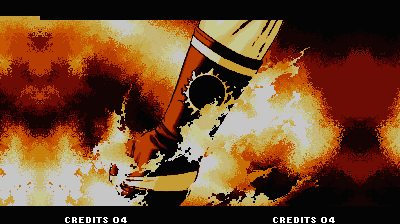
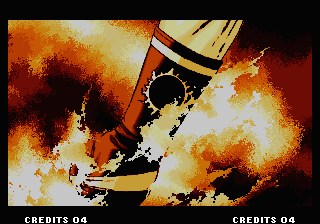
Margin art for the stone backgrounds; letterbox bars; 4:3 vs 16:9 screenshots
assets/stone.png (menus) and assets/stone-red.png (title) hold only new
margin pixels, painted for this project; the game's picture is not in
them. Mode select's left margin meets the picture where it is. The
letterbox layer is extended while it is a plain band. README shows each
screen as the original 4:3 picture and in widescreen; the roadmap gains
a launcher with video options.

diff --git a/src/game.c b/src/game.c
@@ -110,15 +110,18 @@ static void patch(uint8_t *prom, size_t size, int screen_w) {
  * an indexed PNG in the asset folder (KOF98_ASSETS, default assets/ in
  * the repo), painted in the background's palette, which the copies draw
  * through palette RAM so it fades with the screen. `art_x` is where the
- * background's X 0 falls in the image. Without the file, the margins are
- * mirrored. */
-static const struct { uint32_t tile; int period, colour; const char *art; int art_x; } k_backgrounds[] = {
-    {0x07417, 0, 0, "stone.png", 80},                      /* stone: how to play, ranking */
-    {0x07425, 0, 0, "stone.png", 96},                      /* the same 16 pixels on: mode select */
+ * background's X 0 falls in the image, and `art_xl` the same for the left
+ * margin: mode select shows the stone 16 pixels on from how to play, and
+ * the art holds no picture to fill those 16 pixels, so its left margin
+ * meets the picture where it is. Without the file, the margins are
+ * mirrored. `bands` extends a layer only while it is a plain band. */
+static const struct { uint32_t tile; int period, colour; const char *art; int art_x, art_xl; int bands; } k_backgrounds[] = {
+    {0x07417, 0, 0, "stone.png", 80, 80},                  /* stone: how to play, ranking */
+    {0x07425, 0, 0, "stone.png", 96, 80},                  /* the same 16 pixels on: mode select */
     {0x07416, 0, 0, NULL, 0},                              /* continue */
     {0x0787E, 0, 1, NULL, 0},                              /* character select: blue to red */
     {0x07824, 10, 1, NULL, 0},                             /* and its "K.O.F." lettering */
-    {0x097B6, 0, 0, NULL, 0},                              /* title logo */
+    {0x097B6, 0, 0, "stone-red.png", 80, 80},              /* red stone behind the title logo */
     {0x094FC, 0, 0, NULL, 0}, {0x09B72, 0, 0, NULL, 0},    /* intro */
     {0x0D23F, 0, 0, NULL, 0}, {0x0D526, 0, 0, NULL, 0},
     {0x08DD0, 0, 0, NULL, 0}, {0x08EE8, 0, 0, NULL, 0},    /* team story */
@@ -126,14 +129,22 @@ static const struct { uint32_t tile; int period, colour; const char *art; int ar
     {0x0E237, 0, 0, NULL, 0}, {0x0E273, 0, 0, NULL, 0}, {0x0E29B, 0, 0, NULL, 0},
     {0x0E2C3, 0, 0, NULL, 0}, {0x0E2D7, 0, 0, NULL, 0}, {0x0E2EB, 0, 0, NULL, 0},
     {0x07612, 0, 0, NULL, 0},                              /* the white flash of a K.O. */
+    {0x09128, 0, 0, NULL, 0, 1},                           /* letterbox bars: title, intro */
 };
 #define N_BACKGROUNDS (sizeof(k_backgrounds) / sizeof(k_backgrounds[0]))
+
+static int same_columns(const uint16_t *vram, int first, int last, int rows) {
+    if (rows > 32) rows = 32;
+    for (int n = first + 1; n <= last; n++)
+        if (memcmp(vram + n * 64, vram + first * 64, (size_t)rows * 2 * sizeof(uint16_t))) return 0;
+    return 1;
+}
 
 #ifdef KOF98_ASSET_DIR
 /* Loaded art, and the 16-pixel columns cut from it (16 indices per line,
  * 512 lines), made once per background and X. */
 static struct { uint8_t *png; int w, h, tried; } s_art[N_BACKGROUNDS];
-static struct { int bg, x; uint8_t px[16 * 512]; } *s_cols;
+static struct { int bg, x, empty; uint8_t px[16 * 512]; } *s_cols;
 static int s_ncols;
 
 static const uint8_t *art_column(int bg, int x) {
@@ -172,16 +183,20 @@ static const uint8_t *art_column(int bg, int x) {
     }
     if (!s_art[bg].png) return NULL;
     for (int i = 0; i < s_ncols; i++)
-        if (s_cols[i].bg == bg && s_cols[i].x == x) return s_cols[i].px;
+        if (s_cols[i].bg == bg && s_cols[i].x == x) return s_cols[i].empty ? NULL : s_cols[i].px;
     s_cols = realloc(s_cols, sizeof(*s_cols) * (size_t)(s_ncols + 1));
     uint8_t *px = s_cols[s_ncols].px;
     s_cols[s_ncols].bg = bg; s_cols[s_ncols].x = x; s_ncols++;
     memset(px, 0, 16 * 512);
-    int x0 = k_backgrounds[bg].art_x + x;
+    int x0 = (x < 0 ? k_backgrounds[bg].art_xl : k_backgrounds[bg].art_x) + x;
+    int any = 0;
     for (int y = 0; y < s_art[bg].h && y < 512; y++)
         for (int i = 0; i < 16; i++)
-            if (x0 + i >= 0 && x0 + i < s_art[bg].w) px[y * 16 + i] = s_art[bg].png[y * s_art[bg].w + x0 + i];
-    return px;
+            if (x0 + i >= 0 && x0 + i < s_art[bg].w) any |= px[y * 16 + i] = s_art[bg].png[y * s_art[bg].w + x0 + i];
+    /* A column the art leaves empty (the picture itself, where a screen
+     * shows it shifted) falls back to the copies' other methods. */
+    s_cols[s_ncols - 1].empty = !any;
+    return any ? px : NULL;
 }
 #else
 static const uint8_t *art_column(int bg, int x) { (void)bg; (void)x; return NULL; }
@@ -231,6 +246,9 @@ static int extend(const uint16_t *vram, int screen_w, ng_extra_sprite_t *out, in
         for (size_t i = 0; i < N_BACKGROUNDS; i++)
             if (k_backgrounds[i].tile == t) bg = (int)i;
         if (bg < 0) continue;
+        /* A layer that is a plain band only when every column shows the
+         * same tiles (it also carries panels that slide in from the edge). */
+        if (k_backgrounds[bg].bands && !same_columns(vram, s + a, s + b, srows[s])) continue;
         int period = k_backgrounds[bg].period, colour = k_backgrounds[bg].colour;
         uint16_t pal = vram[(s + a) * 64 + 1] >> 8;
         for (int c = 1; 16 * (a - c) + 16 > -margin && n_out < max; c++) {

diff --git a/README.md b/README.md
@@ -13,14 +13,19 @@ This is the first step of a bigger plan: bring the whole KOF series, from '94 to
 
 ## Screenshots
 
-All real output from the recompiled build in widescreen (`--widescreen --headless --screenshot`). The stone behind the menus uses margin art from `assets/` ([below](#widescreen-art)).
+The same frames from the recompiled build, as the original 4:3 picture and in widescreen (`--headless --screenshot`, with and without `--widescreen`):
 
-| | |
+| Original (4:3) | Widescreen (16:9) |
 |---|---|
-| ![NEOGEO boot](docs/screenshots/bios.png) | ![Intro](docs/screenshots/intro.png) |
-| ![Title](docs/screenshots/title.png) | ![Mode select](docs/screenshots/mode.png) |
-| ![Character select](docs/screenshots/select.png) | ![Order select](docs/screenshots/order.png) |
-| ![Fight](docs/screenshots/fight.png) | ![Fight](docs/screenshots/fight-wide.png) |
+| ![NEOGEO boot](docs/screenshots/bios.png) | ![NEOGEO boot, widescreen](docs/screenshots/bios-wide.png) |
+| ![Intro](docs/screenshots/intro.png) | ![Intro, widescreen](docs/screenshots/intro-wide.png) |
+| ![Title](docs/screenshots/title.png) | ![Title, widescreen](docs/screenshots/title-wide.png) |
+| ![Mode select](docs/screenshots/mode.png) | ![Mode select, widescreen](docs/screenshots/mode-wide.png) |
+| ![Character select](docs/screenshots/select.png) | ![Character select, widescreen](docs/screenshots/select-wide.png) |
+| ![Order select](docs/screenshots/order.png) | ![Order select, widescreen](docs/screenshots/order-wide.png) |
+| ![Fight](docs/screenshots/fight.png) | ![Fight, widescreen](docs/screenshots/fight-wide.png) |
+
+The stone behind the title and the menus uses new margin art ([below](#widescreen-art)).
 
 ## Why
 
@@ -35,7 +40,7 @@ Alpha. **There is no sound yet.**
 - **Widescreen** (`--widescreen`, 400×224; up to 480 with `--width`):
   - fights draw the stage across the whole width, on all nine stages, with the camera kept inside the stage art;
   - menus and other backgrounds continue into the margins in the game's own graphics: mirrored textures, repeated patterns, gradients carried on in their edge colour;
-  - a background can take its margins from new art instead ([below](#widescreen-art)).
+  - the stone behind the menus and the title has new margin art ([below](#widescreen-art)).
 - Only player 1 has keys, and there is no gamepad support yet.
 
 ## What was done
@@ -150,9 +155,7 @@ See *Step by step* above. `KOF98_ROM_DIR` is the only game-specific option. With
 
 ## Widescreen art
 
-Mirroring works for most backgrounds, but it shows on the stone texture behind the menus. Those screens can take their margins from new art: put an indexed PNG at `assets/stone.png` (or point `KOF98_ASSETS` at another folder), 496×224, in the stone's 16-colour palette, with the original picture at X 80..399. The game draws it through its own palette, so it fades and dims with the screen. Without the file, the margins are mirrored. [docs/game-notes.md](docs/game-notes.md) has the details.
-
-The art is derived from the game's, so `assets/` is not committed, like `roms/`.
+Mirroring works for most backgrounds, but it shows on the stone textures behind the menus and the title. Those take their margins from new art, painted for this project, in `assets/`: indexed PNGs in each background's palette that hold only the margins. The game draws them through its own palette, so they fade and dim with the screen. To try your own, point `KOF98_ASSETS` at another folder. [docs/game-notes.md](docs/game-notes.md) has the formats.
 
 ## Documentation
 
@@ -162,7 +165,7 @@ The art is derived from the game's, so `assets/` is not committed, like `roms/`.
 
 ## Credits
 
-- **[Danilo P. da Silva](https://github.com/danilopaulinodasilva)**: the project, KOF98 and widescreen.
+- **[Danilo P. da Silva](https://github.com/danilopaulinodasilva)**: the project, KOF98, widescreen and its margin art.
 - **[sp00nznet](https://github.com/sp00nznet)**: [neogeorecomp](https://github.com/sp00nznet/neogeorecomp) and [metalslug](https://github.com/sp00nznet/metalslug), the toolkit and the template this builds on.
 - **[Claude Code](https://claude.com/claude-code)** (Anthropic): AI pair programmer for the reverse engineering, the toolkit changes and the widescreen work. Every change was tested by Danilo before it was pushed.
 - Third-party code in the toolkit: [Musashi](https://github.com/kstenerud/Musashi) (68000 interpreter and `--verify` oracle), [z80](https://github.com/superzazu/z80) (sound CPU), [stb_image](https://github.com/nothings/stb) (PNG decoding).

diff --git a/docs/game-notes.md b/docs/game-notes.md
@@ -42,7 +42,10 @@ Bringing it up as an AES found a toolkit bug: the AES has no board SFIX or SM1, 
 - All nine stages (stage index at `$10A7EA`) were checked with the camera against both ends. A fighter entering between rounds is visible a little earlier.
 - Other screens are drawn for 320 pixels. Their backgrounds are 20 sprite columns at X 0..304, and `ng_game_t.extend` fills the margins with copies of those columns: mirrored at the edge for textures and gradients (the stone menus, the character select, the title logo, intro and story backdrops, the continue screen, the K.O. flash), or repeated every 10 columns for the "K.O.F." lettering behind the character select. When the art's outer column is empty (left for the overscan), the next column in is the edge.
 - The character select's gradient and lettering take their colour from the palette index, which rises from 1 at the outer edge toward the middle. Their copies are drawn in index 1 alone, so the gradient continues from the edge and copied letters keep the edge's colour. Index 1 also fills the 8 pixels the overscan used to hide, which were a lighter stripe at the edge of the picture.
-- Mirroring shows on the stone menus, so their margins can come from art of your own: `assets/stone.png`, an indexed PNG of 496×224 in the stone's 16-colour palette (`$50`), with the original picture at X 80..399. Colours an editor adds to the palette become the nearest of the stone's. "How to play" and the ranking show it as it is; mode select shows it 16 pixels further on, hence the extra 16 pixels on the right. The copies draw it through palette RAM, so it fades and dims with the screen. Without the file, the margins are mirrored. The art is derived from the game's, so `assets/` is not committed, like `roms/`; `KOF98_ASSETS` points elsewhere.
+- Mirroring shows on the stone backgrounds, so their margins come from new art in `assets/`, painted for this project. The images hold only the margins: the middle, where the game's picture goes, is empty.
+  - `stone.png`: the green stone behind the menus, 496×224 in its 16-colour palette (`$50`), with the picture's place at X 80..399. "How to play" and the ranking show it as it is; mode select shows it 16 pixels further on, hence the extra 16 pixels on the right. Mode select's left margin meets the picture where it is (`art_xl`).
+  - `stone-red.png`: the red stone behind the title logo, 480×224 in its palette (`$93`), the picture's place at X 80..399.
+  - The copies draw the art through palette RAM, so it fades and dims with the screen. Colours an editor adds to the palette become the nearest of the background's. Without a file, the margins are mirrored. `KOF98_ASSETS` points at another folder.
 - Only a list of backgrounds, known by their first tile, is extended. The text collages of the intro and a white panel that slides in from the edge would look wrong mirrored, so their margins stay black, as do illustrations narrower than the screen.
 - The 8-pixel black columns at the edges of the original picture come from the fix layer, which CRTs hid in the overscan. The runtime doesn't draw them when the output is wider than 320.
 

diff --git a/CHANGELOG.md b/CHANGELOG.md
@@ -6,7 +6,7 @@ Format: [Keep a Changelog](https://keepachangelog.com/en/1.1.0/); versions follo
 
 ### Added
 - The King of Fighters '98 (MAME set `kof98h`, the AES cart) on neogeorecomp: AES boot, intro, attract demos and team matches, running on recompiled 68000 code. It needs neogeorecomp's multi-bank P ROM support and AES mode.
-- Widescreen (`--widescreen`): fights draw the stage 400 pixels wide, by patching the background column ranges and the camera range at load time; the profile pass also plays the soak in widescreen. Menus and other backgrounds continue into the margins, mirrored, repeated or in their edge colour (`ng_game_t.extend`), and the stone menus can take art of the user's own from `assets/stone.png`.
+- Widescreen (`--widescreen`): fights draw the stage 400 pixels wide, by patching the background column ranges and the camera range at load time; the profile pass also plays the soak in widescreen. Menus and other backgrounds continue into the margins, mirrored, repeated or in their edge colour (`ng_game_t.extend`), the character select in its edge colour, letterbox bars while they are plain bands, and the stone behind the menus and the title from new margin art in `assets/`.
 - `kof98_recomp`, the generator that recompiles the user's own ROMs into `build/generated` at build time (`KOF98_ROM_DIR`).
 - `tests/start_fight.txt` (reach the first round) and `tests/play_long.txt` (5-minute soak), which the `profile` target plays.
 - `Setup.cmd` / `setup.sh` find and checksum the `kof98h` and `neogeo` sets and write a KOF98 launcher.

diff --git a/ROADMAP.md b/ROADMAP.md
@@ -7,6 +7,18 @@
 - **Script more modes** (versus, survivor, practice, the boss fight) into the soak and the profile, so their runtime-only code runs natively and `--verify` covers them.
 - **Widescreen outside fights**: the intro's text collages and illustrations narrower than the screen still have black margins; decide what they show, possibly with more art in `assets/`.
 
+## Launcher and video options
+
+A start screen, before the game boots, to set things up without the command line:
+
+- **Display**: 4:3 or widescreen, integer scaling, fullscreen or window, which monitor, vsync.
+- **Filters**: CRT scanlines, shadow mask or aperture grille, screen curvature, bloom and glow, and the smoother scalers (xBR, hqx), as shaders, so they cost almost nothing.
+- **Colour**: brightness, gamma and saturation, and a "PVM" preset.
+- **Input**: key and gamepad mapping for both players, turbo and macros off by default.
+- **Game**: region (Japan, US, Europe system ROMs), difficulty and the other options the game's own menu has, and a soft reset.
+- **Recording**: screenshots and clips with a key, and the `--record` options.
+- **Quality of life**: save states, fast-forward, a frame counter and input display for practice, and remembering the last settings.
+
 ## The rest of the series
 
 One repo per game, on the same toolkit:

diff --git a/CONTRIBUTING.md b/CONTRIBUTING.md
@@ -6,7 +6,7 @@ Bug reports from playing are the most useful thing right now: what you did, what
 
 - Most fixes belong in the toolkit, [neogeorecomp](https://github.com/danilopaulinodasilva/neogeorecomp) (this project's fork of sp00nznet's): this repo describes the ROM set, the widescreen patches and the test scripts. Nothing game-specific goes into the toolkit, and nothing hardware-specific goes here.
 - Run `kof98 --headless --verify` with the scripts in `tests/` and include the `[verify]` line.
-- **Never include ROMs, the recompiled C from `build/generated`, entry-point lists, disassembly, or art derived from the game's (`assets/`).** Everything derived from the game stays on your machine.
+- **Never include ROMs, the recompiled C from `build/generated`, entry-point lists, or disassembly.** Everything derived from the game stays on your machine. Margin art in `assets/` holds only new pixels, never the game's own picture.
 
 ## Where your code comes from
 
